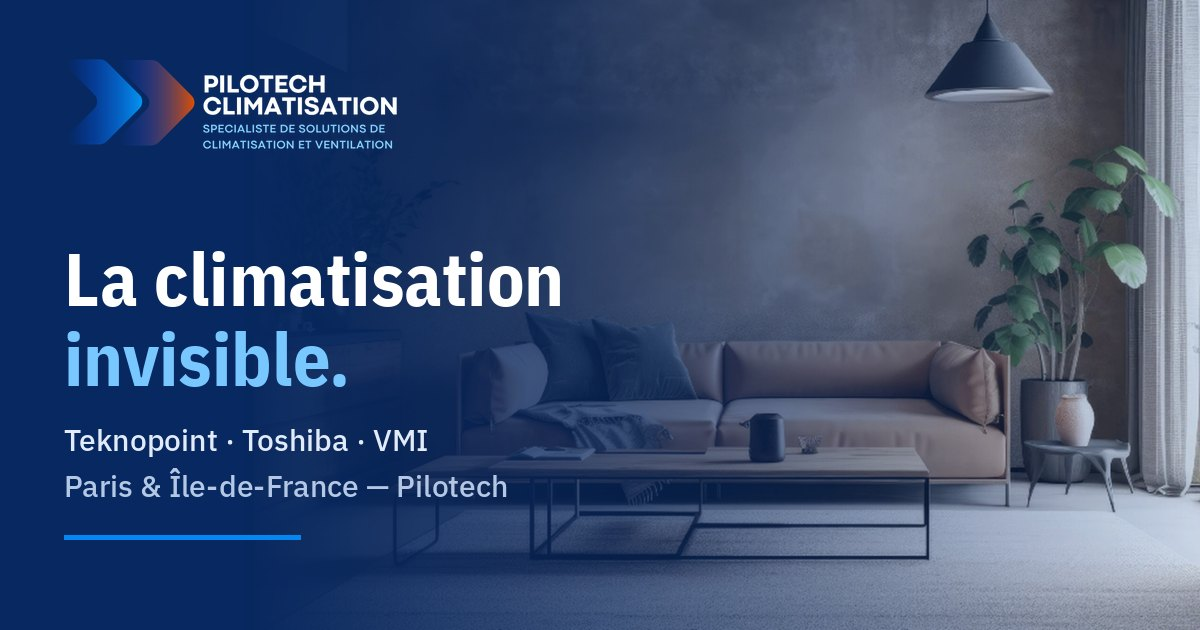
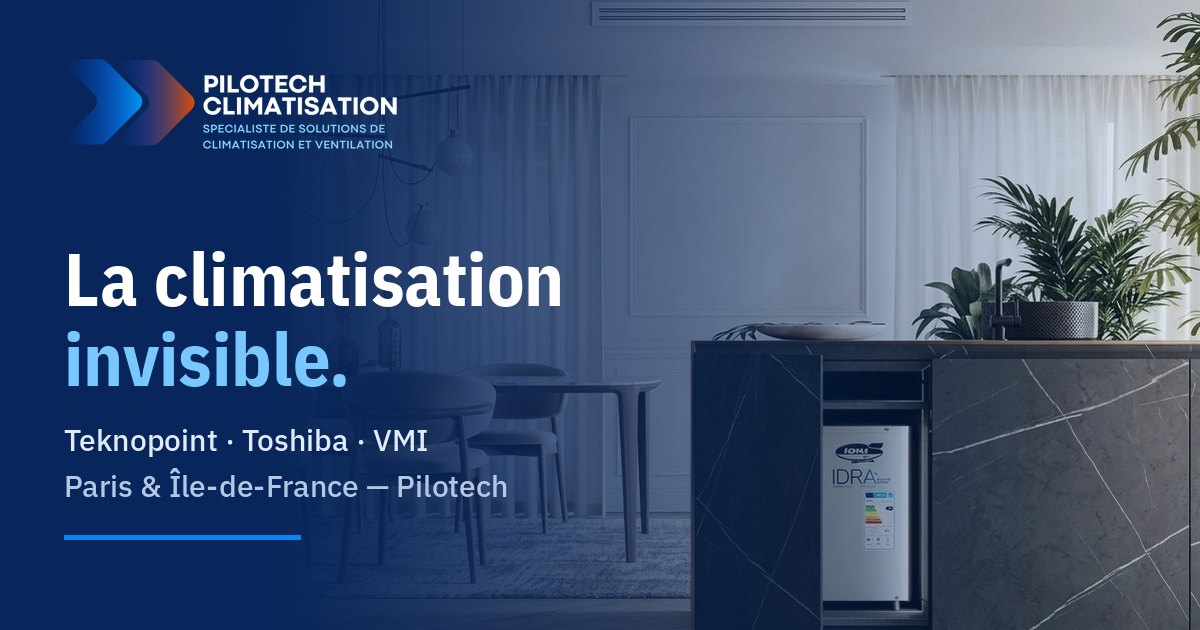
Hero : photo du séjour IDRA et visuel IDRA Next Ring ; carte VMI en blanc et violet
Claude-Session: https://claude.ai/code/session_01BPqcBuoLbRGmeAG8dmj6jZ

diff --git a/assets/css/style.css b/assets/css/style.css
@@ -125,7 +125,7 @@ html.no-preloader .preloader, html:not(.js) .preloader { display: none; }
 .hero-grid { position: absolute; inset: 0; background-image: linear-gradient(rgba(255, 255, 255, .045) 1px, transparent 1px), linear-gradient(90deg, rgba(255, 255, 255, .045) 1px, transparent 1px); background-size: 64px 64px; -webkit-mask-image: radial-gradient(70% 60% at 30% 40%, #000, transparent 75%); mask-image: radial-gradient(70% 60% at 30% 40%, #000, transparent 75%); }
 
 .hero-inner { display: grid; gap: 3.5rem; align-items: center; }
-@media (min-width: 1024px) { .hero-inner { grid-template-columns: minmax(0, 1.12fr) minmax(0, 1fr); gap: 3.5rem; } }
+@media (min-width: 1024px) { .hero-inner { grid-template-columns: minmax(0, 1fr) minmax(0, 1.08fr); gap: 3.5rem; } }
 
 .eyebrow { display: inline-flex; align-items: center; gap: .6rem; font-size: .8rem; font-weight: 600; letter-spacing: .12em; text-transform: uppercase; color: var(--tekno-300); padding: .45rem .9rem .45rem .75rem; border: 1px solid rgba(111, 195, 255, .28); border-radius: 999px; background: rgba(4, 135, 241, .1); }
 .eyebrow .dot { width: 8px; height: 8px; border-radius: 50%; background: var(--tekno-500); box-shadow: 0 0 0 0 rgba(4, 135, 241, .7); animation: pulse 2.4s ease-out infinite; }
@@ -153,20 +153,21 @@ html.no-preloader .preloader, html:not(.js) .preloader { display: none; }
 
 /* Visuel : photo de salon + produit qui déborde du cadre */
 .hero-visual { position: relative; padding: 9% 0 6% 6%; }
-.hero-frame { position: relative; margin: 0; border-radius: 28px; overflow: hidden; aspect-ratio: 4 / 3.5; box-shadow: var(--shadow-lg), 0 0 0 1px rgba(255, 255, 255, .08); }
-.hero-room { width: 100%; height: 100%; object-fit: cover; object-position: 38% 50%; transform: scale(1.08); animation: kenburns 24s ease-in-out infinite alternate; }
-@keyframes kenburns { from { transform: scale(1.08) translate3d(0, 0, 0); } to { transform: scale(1.16) translate3d(-1.5%, -1%, 0); } }
-.hero-frame-shade { position: absolute; inset: 0; background: linear-gradient(200deg, rgba(4, 135, 241, .12) 0%, transparent 40%, rgba(4, 15, 38, .45) 100%); }
+.hero-frame { position: relative; margin: 0; border-radius: 28px; overflow: hidden; aspect-ratio: 1198 / 880; box-shadow: var(--shadow-lg), 0 0 0 1px rgba(255, 255, 255, .08); }
+.hero-scene { position: absolute; inset: 0; transform-origin: 62% 30%; animation: kenburns 24s ease-in-out infinite alternate; }
+.hero-room { width: 100%; height: 100%; object-fit: cover; }
+@keyframes kenburns { from { transform: scale(1.02); } to { transform: scale(1.1); } }
+.hero-frame-shade { position: absolute; inset: 0; background: linear-gradient(200deg, rgba(4, 135, 241, .1) 0%, transparent 45%, rgba(4, 15, 38, .35) 100%); }
 
-.hero-product { position: absolute; z-index: 2; left: 0; top: 0; width: 62%; will-change: transform; }
+.hero-product { position: absolute; z-index: 2; right: -7%; bottom: -6%; width: 25%; will-change: transform; }
 .hero-product img { width: 100%; height: auto; filter: drop-shadow(0 26px 30px rgba(0, 10, 30, .45)) drop-shadow(0 6px 8px rgba(0, 10, 30, .25)); }
 .hero-product.is-missing { display: none; }
 .float { animation: float 7s ease-in-out infinite; }
 @keyframes float { 0%, 100% { transform: translate3d(0, 0, 0); } 50% { transform: translate3d(0, -12px, 0); } }
 
 /* Flux d'air frais sous l'appareil */
-.airflow { position: absolute; left: 12%; right: 12%; top: 78%; height: 120%; pointer-events: none; }
-.airflow span { position: absolute; left: 0; right: 0; height: 2px; border-radius: 2px; background: linear-gradient(90deg, transparent, rgba(159, 217, 255, .85), transparent); opacity: 0; animation: breeze 4.2s ease-out infinite; }
+.airflow { position: absolute; left: 49.5%; width: 26%; top: 17.5%; height: 22%; pointer-events: none; }
+.airflow span { position: absolute; left: 0; right: 0; height: 2px; border-radius: 2px; background: linear-gradient(90deg, transparent, rgba(111, 195, 255, .9), transparent); box-shadow: 0 0 10px rgba(111, 195, 255, .6); opacity: 0; animation: breeze 4.2s ease-out infinite; }
 .airflow span:nth-child(1) { top: 8%; }
 .airflow span:nth-child(2) { top: 22%; animation-delay: 1s; left: 6%; right: 6%; }
 .airflow span:nth-child(3) { top: 36%; animation-delay: 2s; left: 12%; right: 0; }
@@ -178,9 +179,9 @@ html.no-preloader .preloader, html:not(.js) .preloader { display: none; }
 .glass-chip small { display: block; font-size: .75rem; color: rgba(225, 238, 255, .75); }
 .chip-icon { display: grid; place-items: center; width: 38px; height: 38px; border-radius: 11px; background: var(--tekno-gradient); flex: none; }
 .chip-icon svg { width: 20px; height: 20px; fill: none; stroke: #fff; stroke-width: 1.8; stroke-linecap: round; stroke-linejoin: round; }
-.chip-a { right: -2%; bottom: 14%; }
-.chip-b { left: 2%; bottom: -1%; }
-@media (max-width: 640px) { .glass-chip { padding: .6rem .8rem .6rem .6rem; } .chip-icon { width: 32px; height: 32px; } .chip-a { right: 0; bottom: 18%; } .chip-b { display: none; } }
+.chip-a { left: -1%; top: 3%; }
+.chip-b { left: 3%; bottom: 0; }
+@media (max-width: 640px) { .glass-chip { padding: .6rem .8rem .6rem .6rem; } .chip-icon { width: 32px; height: 32px; } .chip-a { left: 0; top: 0; } .chip-b { display: none; } .hero-product { width: 34%; right: -2%; } }
 
 .scroll-cue { position: absolute; left: 50%; bottom: 1.6rem; width: 26px; height: 42px; margin-left: -13px; border: 2px solid rgba(255, 255, 255, .35); border-radius: 14px; }
 .scroll-cue span { position: absolute; left: 50%; top: 8px; width: 4px; height: 8px; margin-left: -2px; border-radius: 2px; background: #fff; animation: cue 2s ease-in-out infinite; }
@@ -203,7 +204,7 @@ html.no-preloader .preloader, html:not(.js) .preloader { display: none; }
 .solutions { position: relative; padding: 6.5rem 0 7rem; background: radial-gradient(60% 50% at 50% 0%, var(--tekno-100), transparent 70%), var(--mist); }
 .section-head { max-width: 52rem; margin: 0 auto 4rem; text-align: center; }
 .kicker { display: inline-block; font-size: .8rem; font-weight: 600; letter-spacing: .14em; text-transform: uppercase; color: var(--tekno-600); }
-.section-head h2 { margin-top: .8rem; font-size: clamp(2.2rem, 4.4vw, 3.4rem); font-weight: 700; }
+.section-head h2 { text-wrap: balance; margin-top: .8rem; font-size: clamp(2.2rem, 4.4vw, 3.4rem); font-weight: 700; }
 .section-head h2 .grad-text { background-image: linear-gradient(100deg, #0A62CC 0%, #0487F1 50%, #0A62CC 100%); }
 .section-head p:last-child { margin-top: 1rem; font-size: 1.08rem; color: var(--body); }
 
@@ -244,14 +245,15 @@ html.no-preloader .preloader, html:not(.js) .preloader { display: none; }
 .card-toshiba .card-product { width: 56%; right: -4%; bottom: -14%; }
 .card-toshiba:hover .card-product { transform: translate3d(-6px, -10px, 0) rotate(-1deg); }
 
-/* --- Carte VMI : violet --- */
-.card-vmi { --accent: #B89AE8; color: rgba(240, 233, 252, .86); background: radial-gradient(80% 50% at 90% 100%, rgba(184, 154, 232, .28), transparent 70%), linear-gradient(160deg, #6A45A8 0%, var(--vmi) 38%, var(--vmi-dark) 100%); }
-.card-vmi h3 { color: #fff; }
-.card-vmi .brand-mark { color: var(--vmi); background: #fff; }
-.card-vmi .brand-tag > span:last-child { color: rgba(240, 233, 252, .8); }
-.card-vmi .card-points li::before { background-color: rgba(255, 255, 255, .2); }
-.card-vmi .card-link { color: var(--vmi-dark); background: #fff; box-shadow: 0 12px 26px -14px rgba(0, 0, 0, .6); }
-.card-vmi:hover .card-link { background: var(--vmi-light); box-shadow: 0 16px 30px -12px rgba(20, 5, 45, .6); }
+/* --- Carte VMI : blanc et violet --- */
+.card-vmi { --accent: var(--vmi); color: #3f3a4a; }
+.card-vmi::before { content: ""; position: absolute; left: 2rem; right: 2rem; bottom: 0; height: 4px; border-radius: 4px 4px 0 0; background: var(--vmi); transform: scaleX(0); transform-origin: left; transition: transform .8s var(--ease-out); }
+.card-vmi:hover::before { transform: scaleX(1); }
+.card-vmi h3 { color: #1E1432; }
+.card-vmi .brand-mark { color: #fff; background: var(--vmi); }
+.card-vmi .brand-tag > span:last-child { color: #5b5566; }
+.card-vmi .card-link { color: #fff; background: var(--vmi-dark); box-shadow: 0 12px 26px -14px rgba(30, 10, 60, .6); }
+.card-vmi:hover .card-link { background: var(--vmi); box-shadow: 0 16px 30px -12px rgba(87, 54, 140, .55); }
 .card-vmi .card-product { width: 34%; right: 5%; bottom: -16%; }
 .card-vmi:hover .card-product { transform: translate3d(-4px, -12px, 0) rotate(1.5deg); }
 
@@ -305,5 +307,5 @@ html.no-preloader .preloader, html:not(.js) .preloader { display: none; }
 @media (prefers-reduced-motion: reduce) {
   *, *::before, *::after { animation-duration: .01ms !important; animation-iteration-count: 1 !important; transition-duration: .01ms !important; transition-delay: 0s !important; scroll-behavior: auto !important; }
   .preloader { display: none; }
-  .hero-room { transform: none; }
+  .hero-scene { transform: none; }
 }

diff --git a/index.html b/index.html
@@ -34,18 +34,18 @@
   <meta property="og:image:type" content="image/jpeg">
   <meta property="og:image:width" content="1200">
   <meta property="og:image:height" content="630">
-  <meta property="og:image:alt" content="Salon lumineux, texte « La climatisation invisible » et logo Pilotech">
+  <meta property="og:image:alt" content="Séjour avec climatiseur Teknopoint IDRA caché dans un meuble, texte « La climatisation invisible » et logo Pilotech">
   <meta name="twitter:card" content="summary_large_image">
   <meta name="twitter:title" content="Pilotech : la climatisation invisible, Toshiba et VMI">
   <meta name="twitter:description" content="Climatisation sans unité extérieure, climatisation Toshiba et ventilation VMI à Paris et en Île-de-France.">
   <meta name="twitter:image" content="https://www.pilotech.eu/assets/img/og-pilotech.jpg">
-  <meta name="twitter:image:alt" content="Salon lumineux, texte « La climatisation invisible » et logo Pilotech">
+  <meta name="twitter:image:alt" content="Séjour avec climatiseur Teknopoint IDRA caché dans un meuble, texte « La climatisation invisible » et logo Pilotech">
 
   <!-- ===== Performances ===== -->
   <link rel="preconnect" href="https://images.squarespace-cdn.com" crossorigin>
   <link rel="preload" href="assets/fonts/ibm-plex-sans-condensed-latin-700-normal.woff2" as="font" type="font/woff2" crossorigin>
   <link rel="preload" href="assets/fonts/ibm-plex-sans-latin-400-normal.woff2" as="font" type="font/woff2" crossorigin>
-  <link rel="preload" as="image" href="assets/img/salon-invisible-1600.webp" imagesrcset="assets/img/salon-invisible-900.webp 900w, assets/img/salon-invisible-1600.webp 1600w" imagesizes="(min-width: 1024px) 50vw, 100vw">
+  <link rel="preload" as="image" href="assets/img/sejour-idra-1198.webp" imagesrcset="assets/img/sejour-idra-800.webp 800w, assets/img/sejour-idra-1198.webp 1198w" imagesizes="(min-width: 1024px) 46vw, 100vw">
   <script>
     /* Le préchargeur ne s'affiche qu'une fois par session ; rien ne bouge si l'utilisateur le demande. */
     (function () { var d = document.documentElement; d.classList.add("js");
@@ -204,28 +204,30 @@
 
         <div class="hero-visual" data-parallax-root>
           <figure class="hero-frame" data-hero-frame>
-            <img class="hero-room" src="assets/img/salon-invisible-1600.webp" srcset="assets/img/salon-invisible-900.webp 900w, assets/img/salon-invisible-1600.webp 1600w" sizes="(min-width: 1024px) 50vw, 100vw" width="1600" height="1066" alt="Salon contemporain au mur en béton ciré, canapé cognac, aucune unité de climatisation visible en façade" fetchpriority="high">
+            <div class="hero-scene">
+              <img class="hero-room" src="assets/img/sejour-idra-1198.webp" srcset="assets/img/sejour-idra-800.webp 800w, assets/img/sejour-idra-1198.webp 1198w" sizes="(min-width: 1024px) 46vw, 100vw" width="1198" height="880" alt="Séjour haussmannien avec table à manger, grille de diffusion discrète au plafond et climatiseur Teknopoint IDRA caché dans l'îlot de cuisine" fetchpriority="high">
+              <div class="airflow" aria-hidden="true">
+                <span></span><span></span><span></span><span></span>
+              </div>
+            </div>
             <span class="hero-frame-shade" aria-hidden="true"></span>
           </figure>
 
           <div class="hero-product" data-depth="0.06">
-            <div class="airflow" aria-hidden="true">
-              <span></span><span></span><span></span><span></span>
-            </div>
-            <img class="float" src="https://images.squarespace-cdn.com/content/v1/6795159239530112bc66aee2/9537c0d6-fd87-40e5-8b54-e484b42519ae/ELFO+CLIM+BGD+TRSPRT.png?format=1000w" width="1000" height="600" alt="Climatiseur Teknopoint ELFO sans unité extérieure" loading="eager" decoding="async" onerror="this.closest('.hero-product').classList.add('is-missing')">
+            <img class="float" src="https://images.squarespace-cdn.com/content/v1/6795159239530112bc66aee2/446c0d17-1949-4594-b207-e0d2a4750941/IDRA+teknopont+6+pilotech+%282%29.png?format=750w" alt="Climatiseur Teknopoint IDRA Next Ring sans unité extérieure" loading="eager" decoding="async" onerror="this.closest('.hero-product').classList.add('is-missing')">
           </div>
 
           <div class="glass-chip chip-a" data-depth="0.1">
             <span class="chip-icon" aria-hidden="true">
               <svg viewBox="0 0 24 24"><path d="M3 21V8l9-5 9 5v13"/><path d="M9 21v-6h6v6"/></svg>
             </span>
-            <span><strong>Façade intacte</strong><small>Immeubles classés &amp; copropriétés</small></span>
+            <span><strong>Rien en façade</strong><small>Pas même une grille</small></span>
           </div>
           <div class="glass-chip chip-b" data-depth="0.14">
             <span class="chip-icon" aria-hidden="true">
-              <svg viewBox="0 0 24 24"><path d="M12 2v20M4.9 4.9l14.2 14.2M2 12h20M4.9 19.1 19.1 4.9"/></svg>
+              <svg viewBox="0 0 24 24"><path d="M12 3c3 4 6 7.2 6 10.5a6 6 0 0 1-12 0C6 10.2 9 7 12 3z"/></svg>
             </span>
-            <span><strong>Partenaire Teknopoint</strong><small>Île-de-France</small></span>
+            <span><strong>IDRA Next Ring</strong><small>Sur la boucle d'eau de l'immeuble</small></span>
           </div>
         </div>
       </div>

diff --git a/README.md b/README.md
@@ -31,11 +31,11 @@ robots.txt, sitemap.xml, site.webmanifest, favicon.ico, apple-touch-icon.png
 
 ## À savoir
 
-- Le visuel ELFO du hero est chargé depuis le CDN Squarespace du site Teknopoint actuel. Pour ne plus dépendre
-  de Squarespace, enregistrer ce PNG dans `assets/img/` et changer le `src` de `.hero-product img`.
-  Si l'image ne charge pas, le hero reste propre : le bloc produit est simplement masqué.
+- Le visuel IDRA Next Ring du hero est chargé depuis le CDN Squarespace du site Teknopoint actuel
+  (même adresse que dans le dépôt pilotech). Pour ne plus dépendre de Squarespace, enregistrer ce PNG dans `assets/img/`
+  et changer le `src` de `.hero-product img`. Si l'image ne charge pas, le bloc produit est simplement masqué.
 - L'URL canonique est `https://www.pilotech.eu/`. Tant que pilotech.eu héberge le site Teknopoint (Squarespace),
   le lien « Climatisation invisible » y renvoie. Le jour où ce portail prendra le domaine pilotech.eu,
   il faudra donner une nouvelle adresse au site Teknopoint et mettre ce lien à jour.
-- Les photos d'intérieur viennent des sites Toshiba et VMI ; les appareils visibles ont été retirés pour poser par-dessus
+- La photo du hero (séjour avec IDRA dans l'îlot) a été fournie par Pilotech. Les photos des cartes viennent des sites Toshiba et VMI ; les appareils visibles ont été retirés pour poser par-dessus
   les visuels produits détourés.
